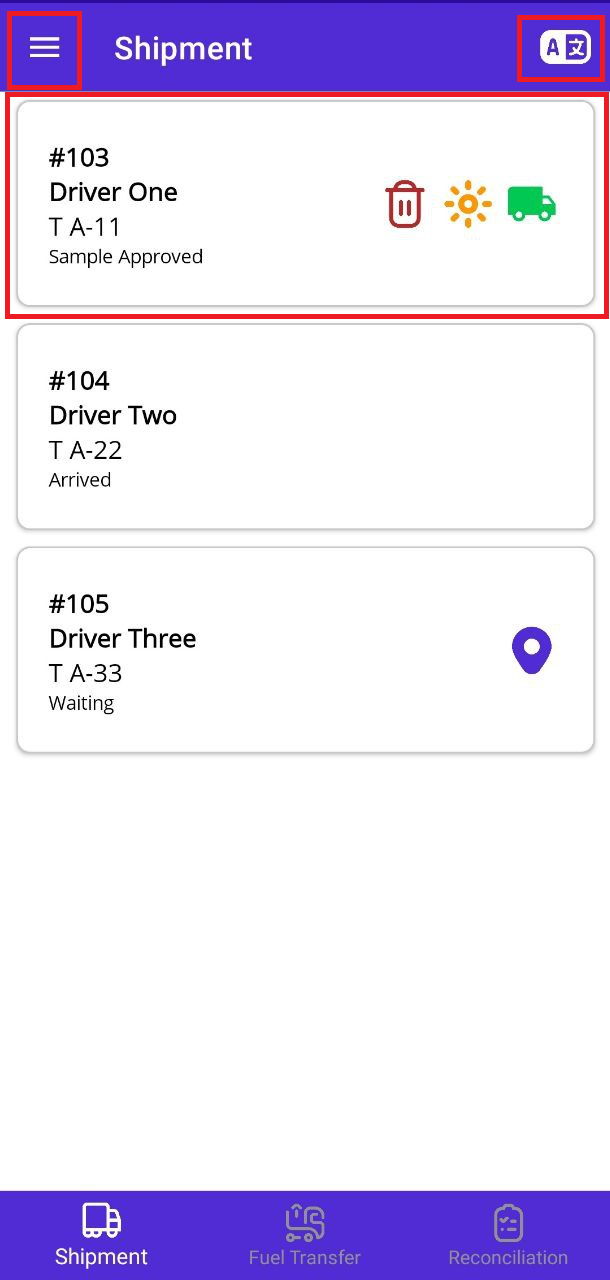
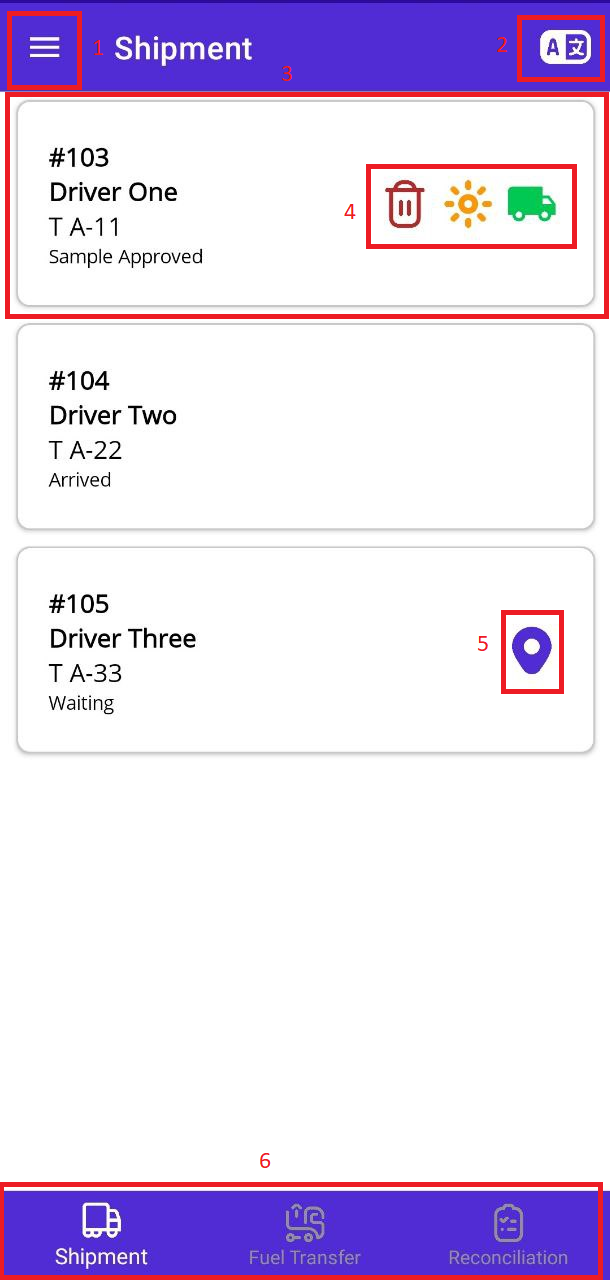
Add Mobile Components Page

Changed region(s): [[0.0, 0.9062, 0.9967, 1.0], [0.5607, 0.125, 0.9656, 0.2188], [0.8098, 0.4688, 0.9344, 0.5625]]

diff --git a/docs/mobile/components.md b/docs/mobile/components.md
@@ -1,0 +1,64 @@
+# Components
+
+## Home Screen
+
+<figure markdown>
+  ![Image title](../assets/images/mobile/components/Home%20Screen.png){ width="300"}
+  <figcaption>Home Screen</figcaption>
+</figure>
+
+1. Navigation Menu.
+2. Icon Button for changing language.
+3. Data Record Card.
+4. Icon Buttons, from left to right:
+    - Waste.
+    - Evaporation.
+    - Unload.
+5. Mark as Arrived Icon Button.
+6. Bottom Navigation Bar.
+
+## Navigation Menu
+
+<figure markdown>
+  ![Image title](../assets/images/mobile/components/Navigation%20Menu.jpg){ width="300"}
+  <figcaption>Navigation Menu</figcaption>
+</figure>
+
+1. Navigation Buttons to other screens.
+2. Logout Flat Button.
+
+## Fuel Transfer
+
+<figure markdown>
+  ![Image title](../assets/images/mobile/components/Fuel%20Transfer.jpg){ width="300"}
+  <figcaption>Fuel Transfer</figcaption>
+</figure>
+
+1. Selectable Field.
+2. Text Field.
+3. Icon Button to scan QR Code.
+4. Flat Button to save the record.
+
+## Date Picker
+
+<figure markdown>
+  ![Image title](../assets/images/mobile/components/Date%20Picker.jpg){ width="300"}
+  <figcaption>Date Picker</figcaption>
+</figure>
+
+## Time Picker
+
+<figure markdown>
+  ![Image title](../assets/images/mobile/components/Time%20Picker.jpg){ width="300"}
+  <figcaption>Time Picker</figcaption>
+</figure>
+
+## Reconciliation
+
+<figure markdown>
+  ![Image title](../assets/images/mobile/components/Reconciliation.jpg){ width="300"}
+  <figcaption>Reconciliation</figcaption>
+</figure>
+
+1. Icon Button to scan QR Code.
+2. Flat Button to save the record.
